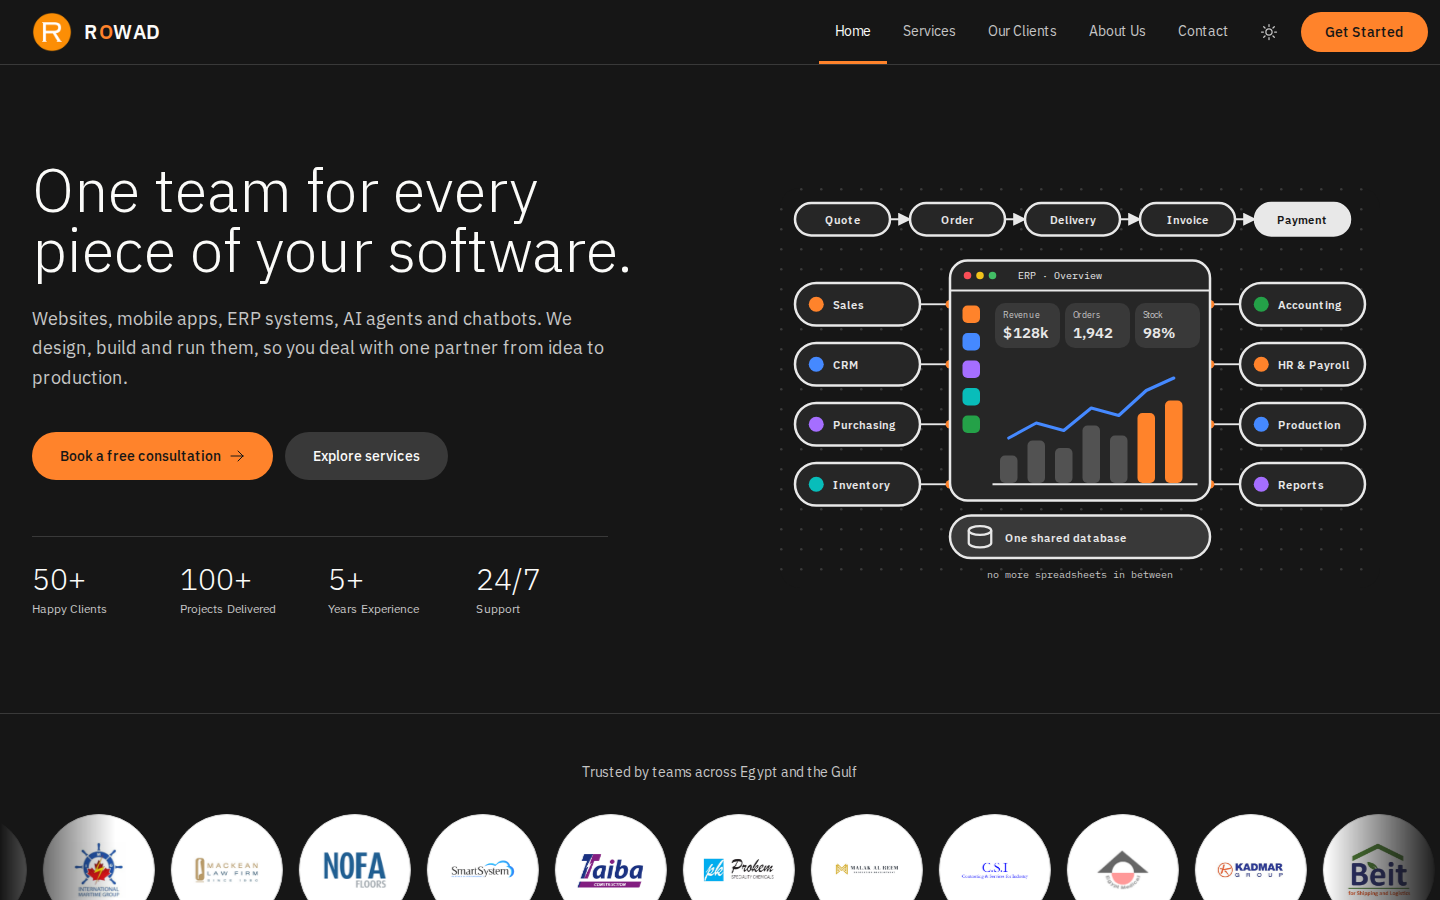
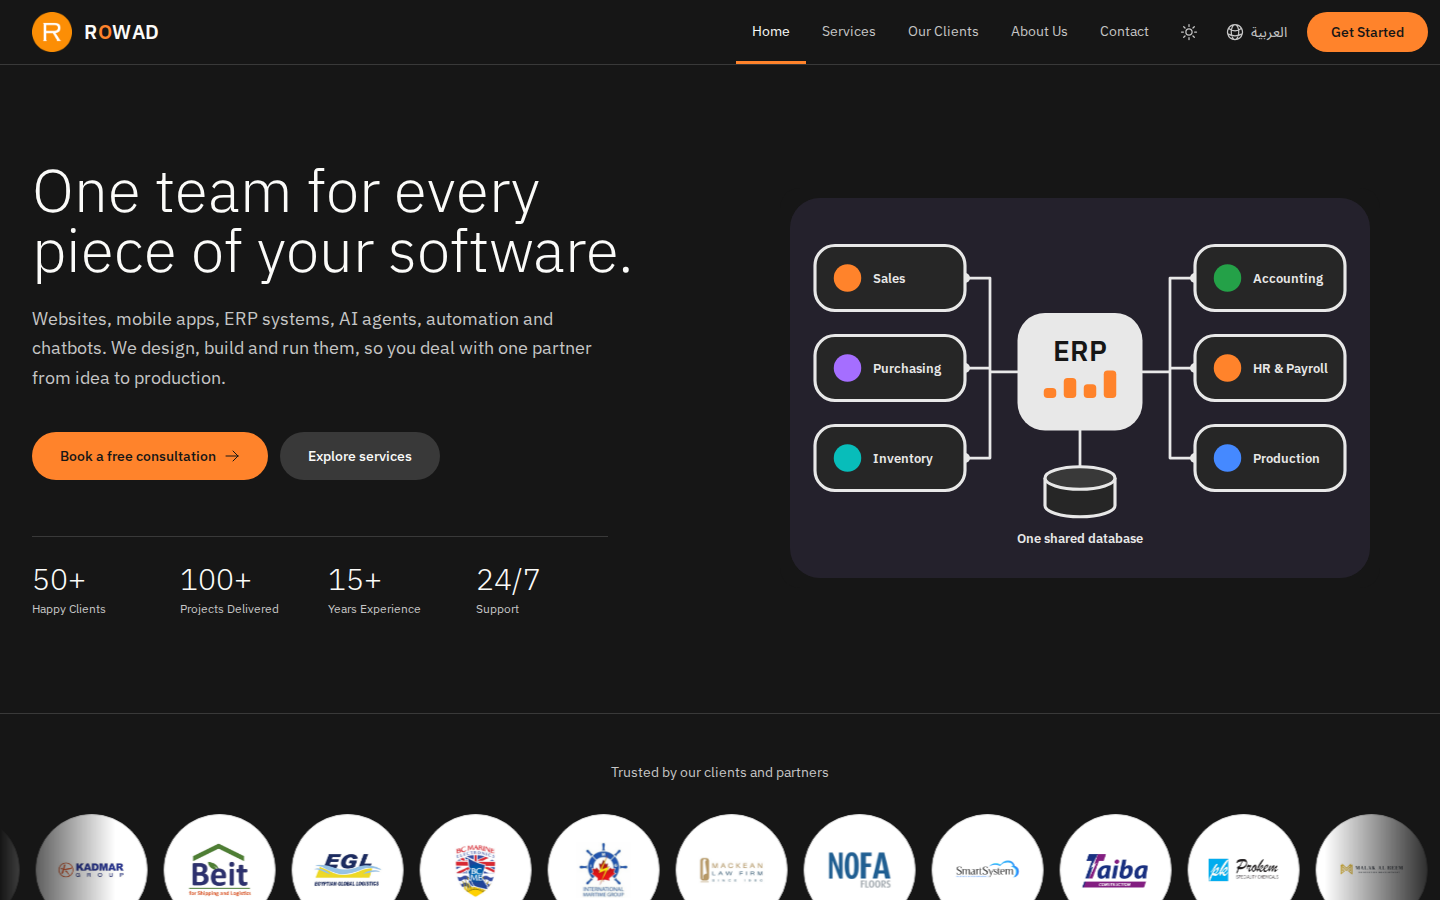
README: new screenshots (English and Arabic) and a short what-we-do list
Fresh 1440x900 screenshots of the redesigned site, scrolled to the useful part of
each page, plus two Arabic ones. Adds a What we do list (with AI agents and
automation) and a short note on what this repository is.

diff --git a/README.md b/README.md
@@ -3,14 +3,23 @@
 **Rowad for Software Development** is a software company in Alexandria, Egypt. We design, build and
 run custom software for businesses, from idea to production.
 
-Website: https://rowad.com
+Website: https://rowad.com (English and Arabic)
+
+## What we do
+
+- **Websites and web apps**
+- **Mobile apps** for iOS and Android
+- **ERP systems**: implementation, migration and custom modules
+- **AI agents and automation**, with tools like n8n
+- **Chatbots** on WhatsApp and the web, in Arabic and English
+- **Hosting and DevOps**: managed hosting, CI/CD, backups and monitoring
 
 ## About us
 
 Rowad began by building and hosting websites. As clients grew, they asked for mobile apps, then for
-ERP systems to run their operations, then for AI agents and chatbots to automate routine work. We
-learned each one, and one team now covers all of it, including the hosting and DevOps that keeps it
-running.
+ERP systems to run their operations, then for AI agents and automation to take over routine work.
+We learned each one, and one team now covers all of it, including the hosting and DevOps that keeps
+it running.
 
 Our mission is simple: give businesses software that works, delivered by people who pick up the
 phone. We want to be known for quality, reliability and a customer-first approach across the region.
@@ -21,6 +30,11 @@ phone. We want to be known for quality, reliability and a customer-first approac
 2. **Design**: you click through a prototype before we write code.
 3. **Build**: short sprints, with a demo every two weeks.
 4. **Launch**: we go live, train your team and stay on call.
+
+## This repository
+
+The code of the company website: a static Next.js site in English and Arabic (right to left),
+deployed to our own hosting on every merge into `dev`.
 
 ## Screenshots
 
@@ -33,3 +47,9 @@ phone. We want to be known for quality, reliability and a customer-first approac
 | ![About](docs/screenshots/about.png) | ![Clients](docs/screenshots/clients.png) |
 
 ![Contact](docs/screenshots/contact.png)
+
+### العربية (Arabic)
+
+| الرئيسية | الخدمات |
+| --- | --- |
+| ![Arabic home](docs/screenshots/ar-home.png) | ![Arabic services](docs/screenshots/ar-services.png) |
